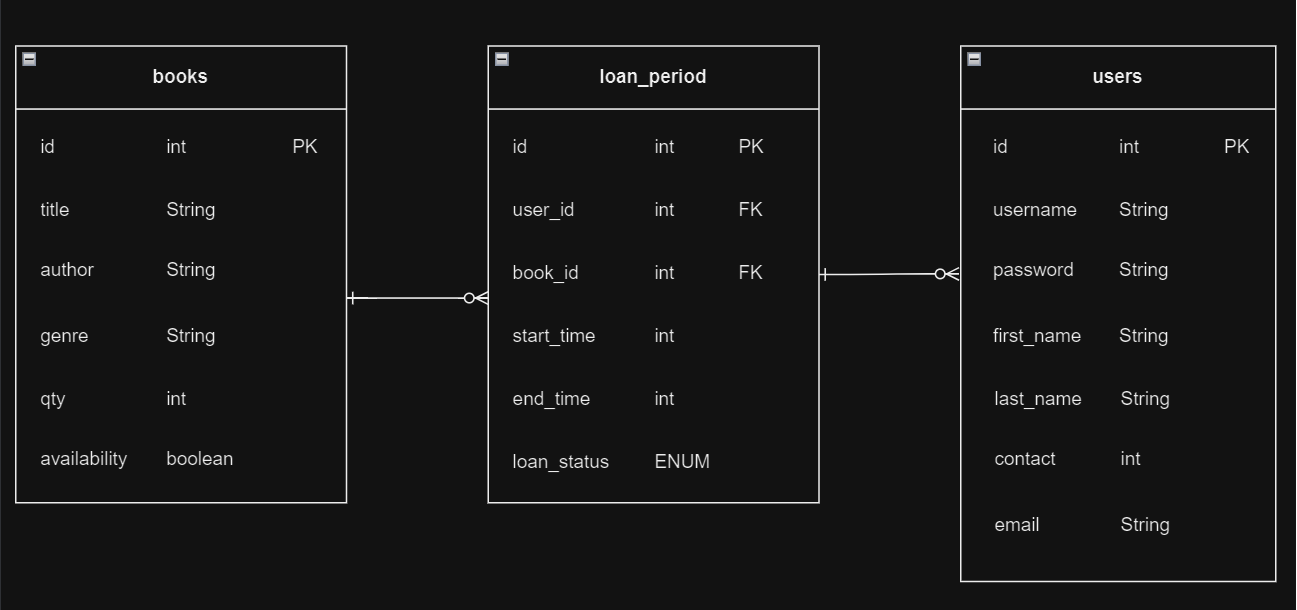
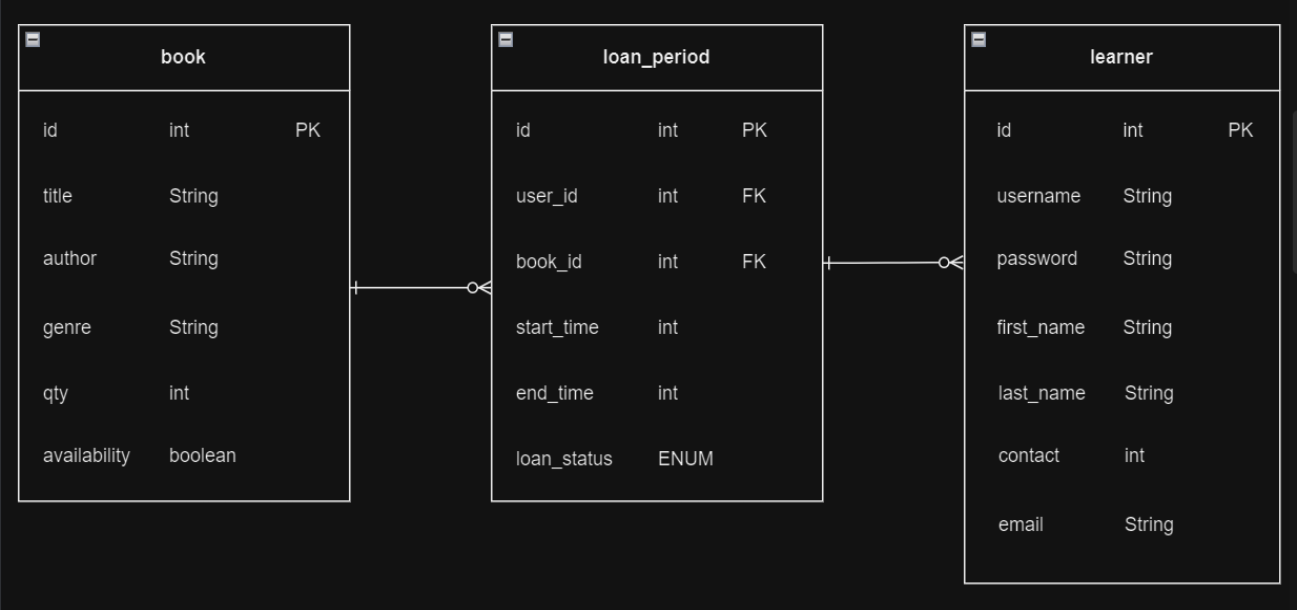
Update the name from User to Learner due to crashing with db reserve word

diff --git a/README.md b/README.md
@@ -5,7 +5,7 @@
 ![Schema_Diagram](https://github.com/eggOnion/Library-Booking-System/blob/main/Schema%20Diagram.png?raw=true)
 
 
-### Books Table
+### Book Table
 
 1. `availability` is based on the `quantity`. Eg; if (quantity == 0) then availability = FALSE
 
@@ -14,7 +14,7 @@
 ***
 
 
-## Users Table
+## Learner Table
 
 1. Can create new user accounts
 2. Can set password
@@ -22,8 +22,8 @@
 
     ## Challenge
     * Can create `admin` account to have CRUD operation over:
-        * `Books` table
-        * `Users` table
+        * `Book` table
+        * `Learner` table
 
 ***
 
@@ -32,7 +32,7 @@
 
 1. `starttime` to `endtime` can be fixed. Eg; 21 days. The **data type** should be `LocalDate`
 
-2.  To compute the `quantity` count for the `books` table based on it's `loan_status`.
+2.  To compute the `quantity` count for the `book` table based on it's `loan_status`.
     * Examples; 
         * if the book is on `.BORROWED` or `.OVERDUE` then **quantity=quantity-1**
         * if the book is on `.RETURNED` then  **quantity=quantity+1**
